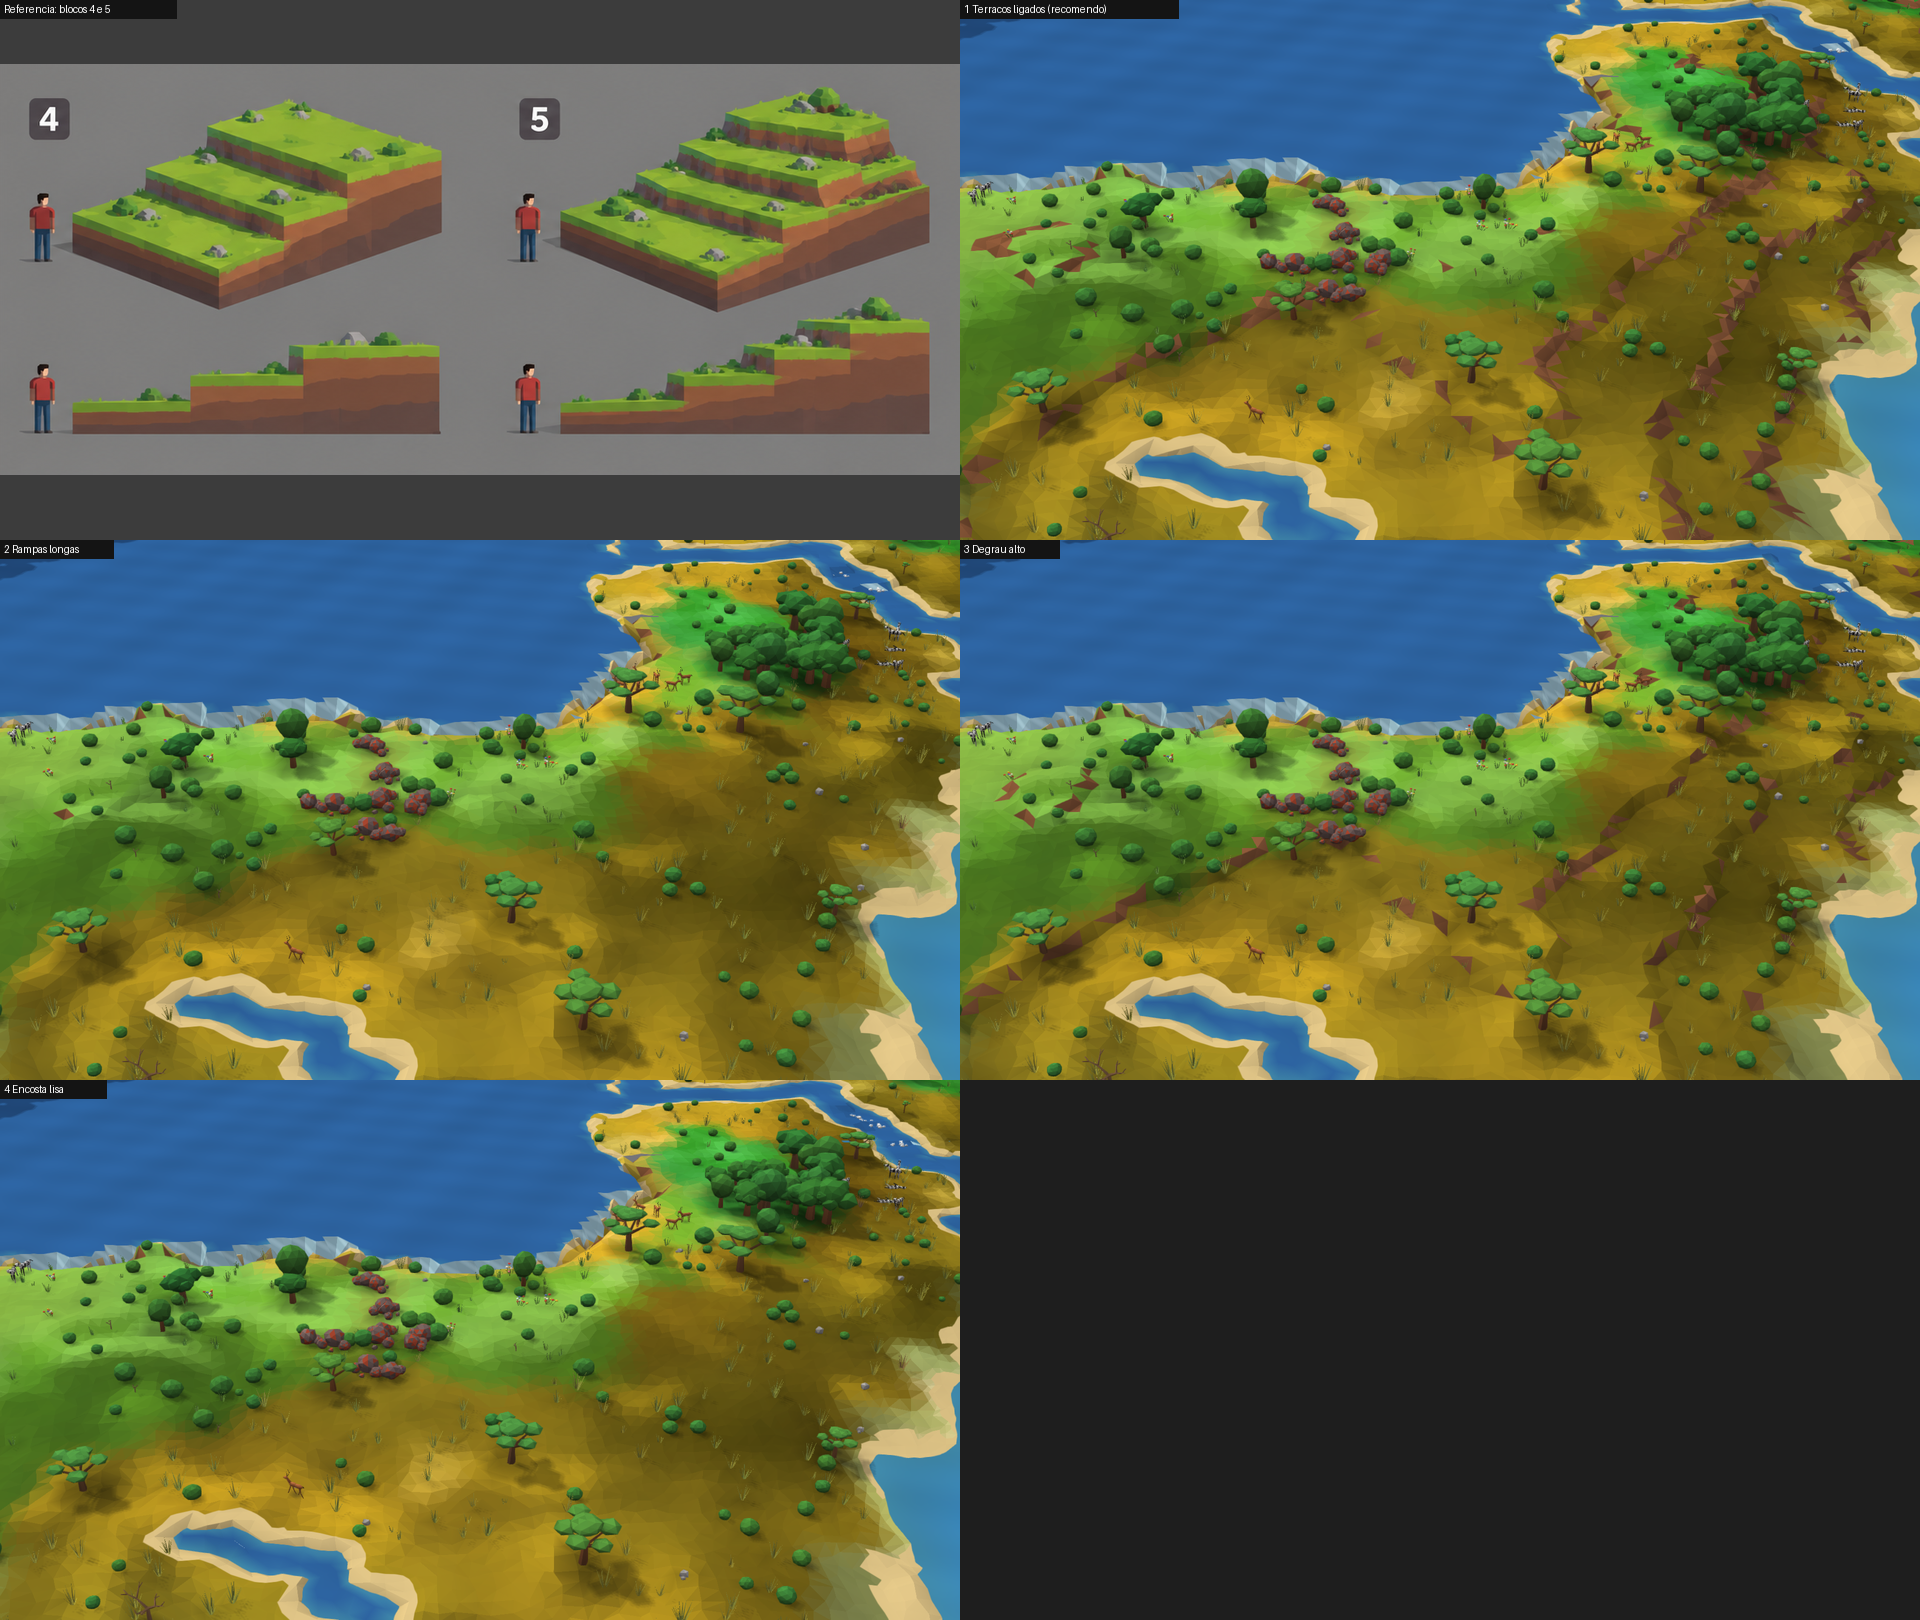
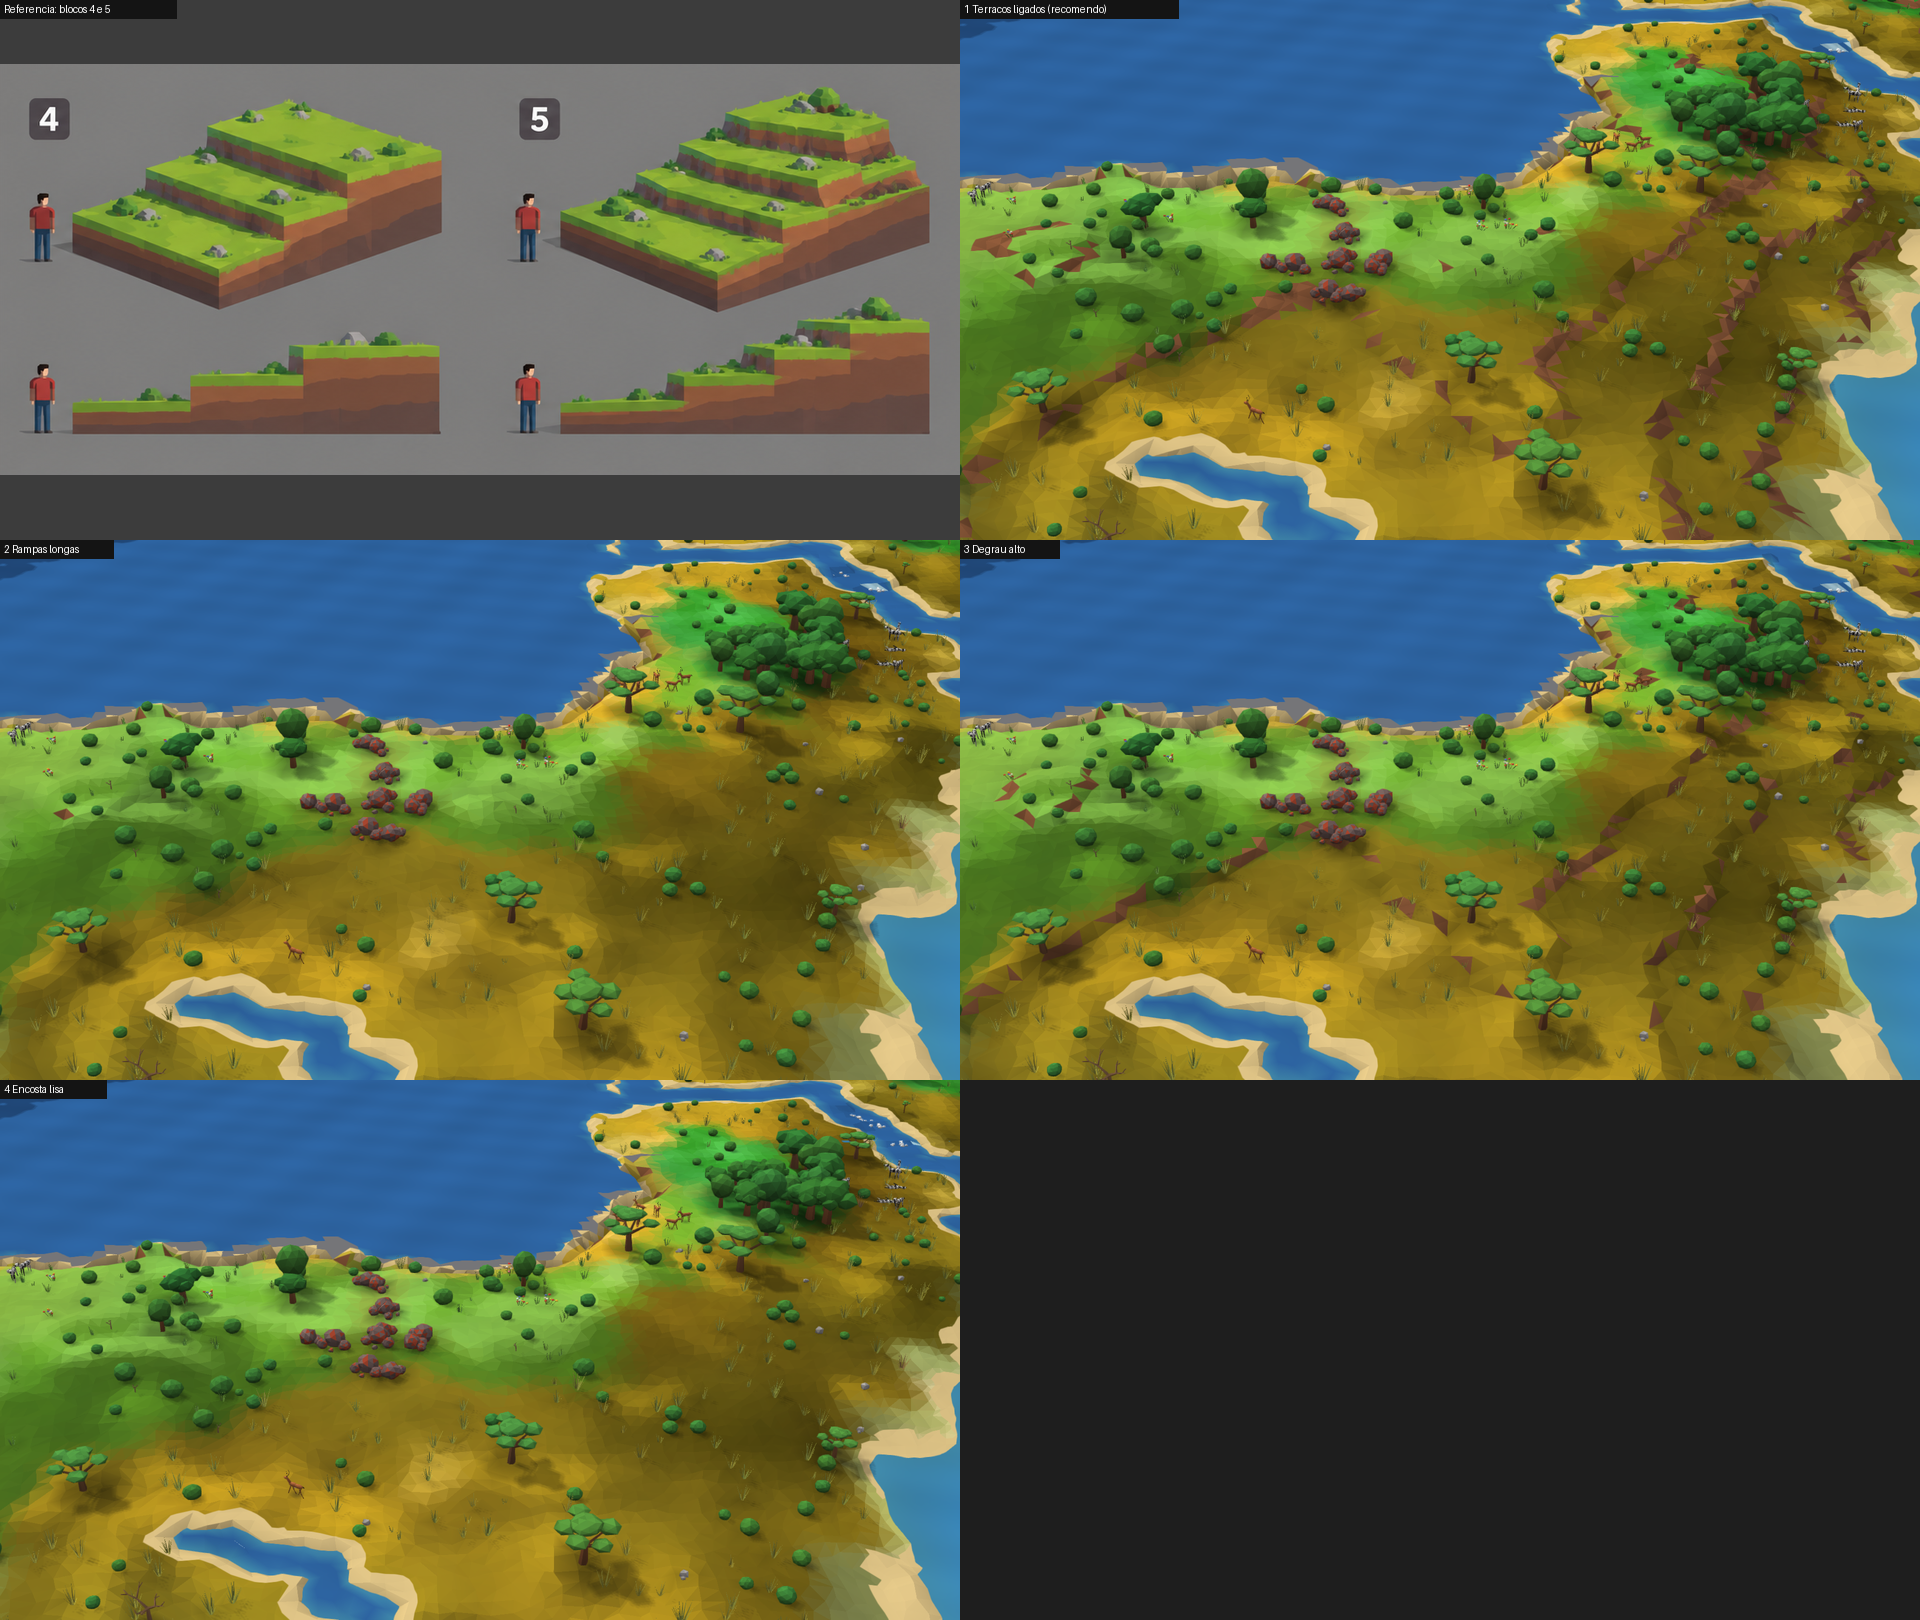
fix(m3-maquete): lago encostado no mar não vira parede de água; capturas e medição finais

diff --git a/src/maquete/chunk-build.ts b/src/maquete/chunk-build.ts
@@ -29,6 +29,8 @@ export interface Fields {
   sand: Float32Array;
   /** Charco: a água fica escura e esverdeada. */
   marsh: Float32Array;
+  /** Rio: só aqui um degrau no nível da água vira cachoeira. */
+  river: Float32Array;
   /** Encosta de terraço: terra à mostra. */
   bank: Float32Array;
   /** Pico por cima (nada de planta aqui). */
@@ -47,7 +49,7 @@ export interface Fields {
 export function newFields(size: number, margin: number): Fields {
   const stride = size + 1 + margin * 2, count = stride * stride;
   const a = () => new Float32Array(count);
-  return { size, margin, stride, y: a(), water: new Float32Array(count).fill(-Infinity), r: a(), g: a(), b: a(), sand: a(), marsh: a(), bank: a(), peak: a(), wr: new Float32Array(count).fill(WATER_DEEP[0]), wg: new Float32Array(count).fill(WATER_DEEP[1]), wb: new Float32Array(count).fill(WATER_DEEP[2]), shade: new Float32Array(count).fill(1), jx: a(), jz: a() };
+  return { size, margin, stride, y: a(), water: new Float32Array(count).fill(-Infinity), r: a(), g: a(), b: a(), sand: a(), marsh: a(), river: a(), bank: a(), peak: a(), wr: new Float32Array(count).fill(WATER_DEEP[0]), wg: new Float32Array(count).fill(WATER_DEEP[1]), wb: new Float32Array(count).fill(WATER_DEEP[2]), shade: new Float32Array(count).fill(1), jx: a(), jz: a() };
 }
 
 export class VertexOut {
@@ -167,6 +169,8 @@ export function buildWater(f: Fields, ox: number, oz: number, style: TerrainStyl
     return best;
   };
   const tri = (a: number, b: number, c: number, wa: number, wb: number, wc: number): void => {
+    // Lago encostado no mar, ou em outro nível: nada de parede de água; aparece a margem de terra entre eles.
+    if (Math.max(wa, wb, wc) - Math.min(wa, wb, wc) > 0.25 && !((f.river[a] as number) && (f.river[b] as number) && (f.river[c] as number))) return;
     const ax = px(a), az = pz(a), bx = px(b), bz = pz(b), cx = px(c), cz = pz(c);
     let nx = (bz - az) * (wc - wa) - (wb - wa) * (cz - az);
     let ny = (bx - ax) * (cz - az) - (bz - az) * (cx - ax);

diff --git a/src/maquete/world-fields.ts b/src/maquete/world-fields.ts
@@ -399,7 +399,7 @@ function fill(w: CoarseWorld, f: Fields, face: number, ox: number, oz: number, p
     const lift = surfaceLift(px, pz, face, patch).lift;
     if (lift <= 0.5) {
       // Rio e lago: canal cavado; o chão acompanha o nível da água, para o rio não correr por cima dele.
-      let d = Infinity, level = 0;
+      let d = Infinity, level = 0, isLake = false;
       const wobble = noise3(sx * 0.35, sy * 0.35, sz * 0.35) * 0.45;
       for (const q of near) {
         const ex = q.bx - q.ax, ez = q.bz - q.az, wx0 = px - q.ax, wz0 = pz - q.az;
@@ -411,14 +411,14 @@ function fill(w: CoarseWorld, f: Fields, face: number, ox: number, oz: number, p
       const lakeMask = patch.spline(patch.lake, cx, cz);
       if (lakeMask > 0.02) {
         const dL = (0.5 - lakeMask) * 7 + wobble;
-        if (dL < d) { d = dL; level = patch.lakeY[cellAt] as number || patch.lakeY[patch.nearest(px, pz)] as number || level; }
+        if (dL < d) { d = dL; isLake = true; level = patch.lakeY[cellAt] as number || patch.lakeY[patch.nearest(px, pz)] as number || level; }
       }
       if (d < 6 && meters > 0) {
         f.bank[k] = 0;
         if (level > y - 0.4) y += (level + 0.45 - y) * smoothstep(5.5, 2, d);
         y += (level + 0.26 - y) * smoothstep(3.2, 0.6, d);
         y += (level - 0.9 - y) * smoothstep(0.55, -0.9, d);
-        if (d < 3) { f.water[k] = level; f.marsh[k] = 0; }
+        if (d < 3) { f.water[k] = level; f.marsh[k] = 0; f.river[k] = isLake ? 0 : 1; }
         if (!cold) f.sand[k] = Math.max(f.sand[k] as number, smoothstep(1.7, 0.9, d + noise3(sx * 0.5 + 3, sy * 0.5, sz * 0.5) * 0.4));
       }
     }

diff --git a/src/maquete/replica-scene.ts b/src/maquete/replica-scene.ts
@@ -242,7 +242,7 @@ function fillFields(f: Fields, ox: number, oz: number): void {
       if (level > y - 0.4) y = y + (level + 0.45 - y) * smoothstep(5.5, 2, d);
       y = y + (level + 0.26 - y) * smoothstep(3.2, 0.6, d);
       y = y + (level - 0.9 - y) * smoothstep(0.55, -0.9, d);
-      if (d < 3) f.water[k] = level;
+      if (d < 3) { f.water[k] = level; f.river[k] = 1; }
       f.sand[k] = smoothstep(2.15, 1.1, d + noise3(px * 0.5, 3.3, pz * 0.5) * 0.45);
     }
     // Debaixo das facetas o chão sobe junto, um pouco mais baixo, e não aparece.

diff --git a/docs/M3-maquete.md b/docs/M3-maquete.md
@@ -66,16 +66,16 @@ Build de produção, navegador com a GPU do notebook, 1080p, na tomada. Relatór
 
 | Medida (meta) | Antes das técnicas | Depois |
 |---|---:|---:|
-| GPU na entrada da maquete (≤ 8 ms) | 10,4 ms | 4,4 ms no cenário do relatório |
+| GPU na entrada da maquete, cenário do relatório (≤ 8 ms) | 10,4 ms | 3,7 ms (pior 5,5) |
 | GPU na mata mais densa do planeta, de 1× a 5,6× de zoom (≤ 8 ms) | | 4,5–8,0 ms de média; quadros isolados até 9,8 ms na taiga |
 | Triângulos na entrada | 1,22 milhão | ~660 mil |
-| Pior quadro andando e correndo (nenhum > 50 ms) | 298 ms | 17 ms |
-| fps nos 23 cenários (60) | 52–56 | 60, mínimo 60 |
-| Montar um pedaço no ajudante, pior | 355 ms | 29 ms (média 5,8 ms) |
+| Pior quadro andando e correndo (nenhum > 50 ms) | 298 ms | 17 ms (no relatório todo, 33 ms, em desastres "Muitos" a 20×) |
+| fps nos cenários (60) | 52–56 | 60 de média; mínimo 59 |
+| Montar um pedaço no ajudante, pior | 355 ms | 31 ms (média 5,9 ms) |
 | Memória da página (≤ 400 MB) | | 218 MB |
-| Geração (≤ 1,5 s) / abertura (≤ 2,5 s) | | 0,92 s / 1,46 s |
-| Recomposição à vista na maquete (≤ 1 s) | | 793 ms em segundo plano, pior quadro 17 ms |
-| Relógio esperou (0) | | 0; travadas 0 |
+| Geração (≤ 1,5 s) / abertura (≤ 2,5 s) | | 0,91 s / 1,44 s |
+| Recomposição à vista na maquete (≤ 1 s) | | 795 ms em segundo plano, pior quadro 17 ms |
+| Travadas | | 0 da tela; 1 da data (326 ms, ao ligar as placas depois de muito tempo paradas) |
 
 **Técnicas (regra 16, nada some da tela):** modelos de longe com a mesma silhueta e menos faces, a partir de 170 unidades da câmera; sombra desenhada em partes em 2 mapas, com os modelos de longe; fundo do mar coberto não é desenhado; mar aberto em blocos de 4 células; recorte do que está fora da vista; plantas antes do chão; uma amostra de sombra de longe; programas compilados atrás da tela de carregamento; e a sombra já começa a ser feita antes do corte.
 
